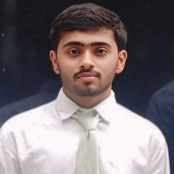
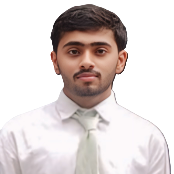
start

diff --git a/src/pages/Index.tsx b/src/pages/Index.tsx
@@ -1,4 +1,3 @@
-
 import React, { useEffect } from "react";
 import { motion } from "framer-motion";
 import { User, Mail, Phone, Code, Github, Linkedin, ArrowDown } from "lucide-react";
@@ -69,7 +68,11 @@ const Index = () => {
               transition={{ duration: 0.5, delay: 0.2 }}
             >
               <div className="w-56 h-56 md:w-64 md:h-64 mx-auto rounded-full overflow-hidden border-4 border-white dark:border-gray-800 shadow-lg bg-purple-100 dark:bg-purple-900/30 flex items-center justify-center">
-                <User size={80} className="text-purple-600" />
+                <img 
+                  src="public\lovable-uploads\23900270-7690-4f29-986c-09ff10d2b1c3 copy.png" 
+                  alt="Harsha Vardhana T"
+                  className="w-full h-full object-cover"
+                />
               </div>
             </motion.div>
           </div>
